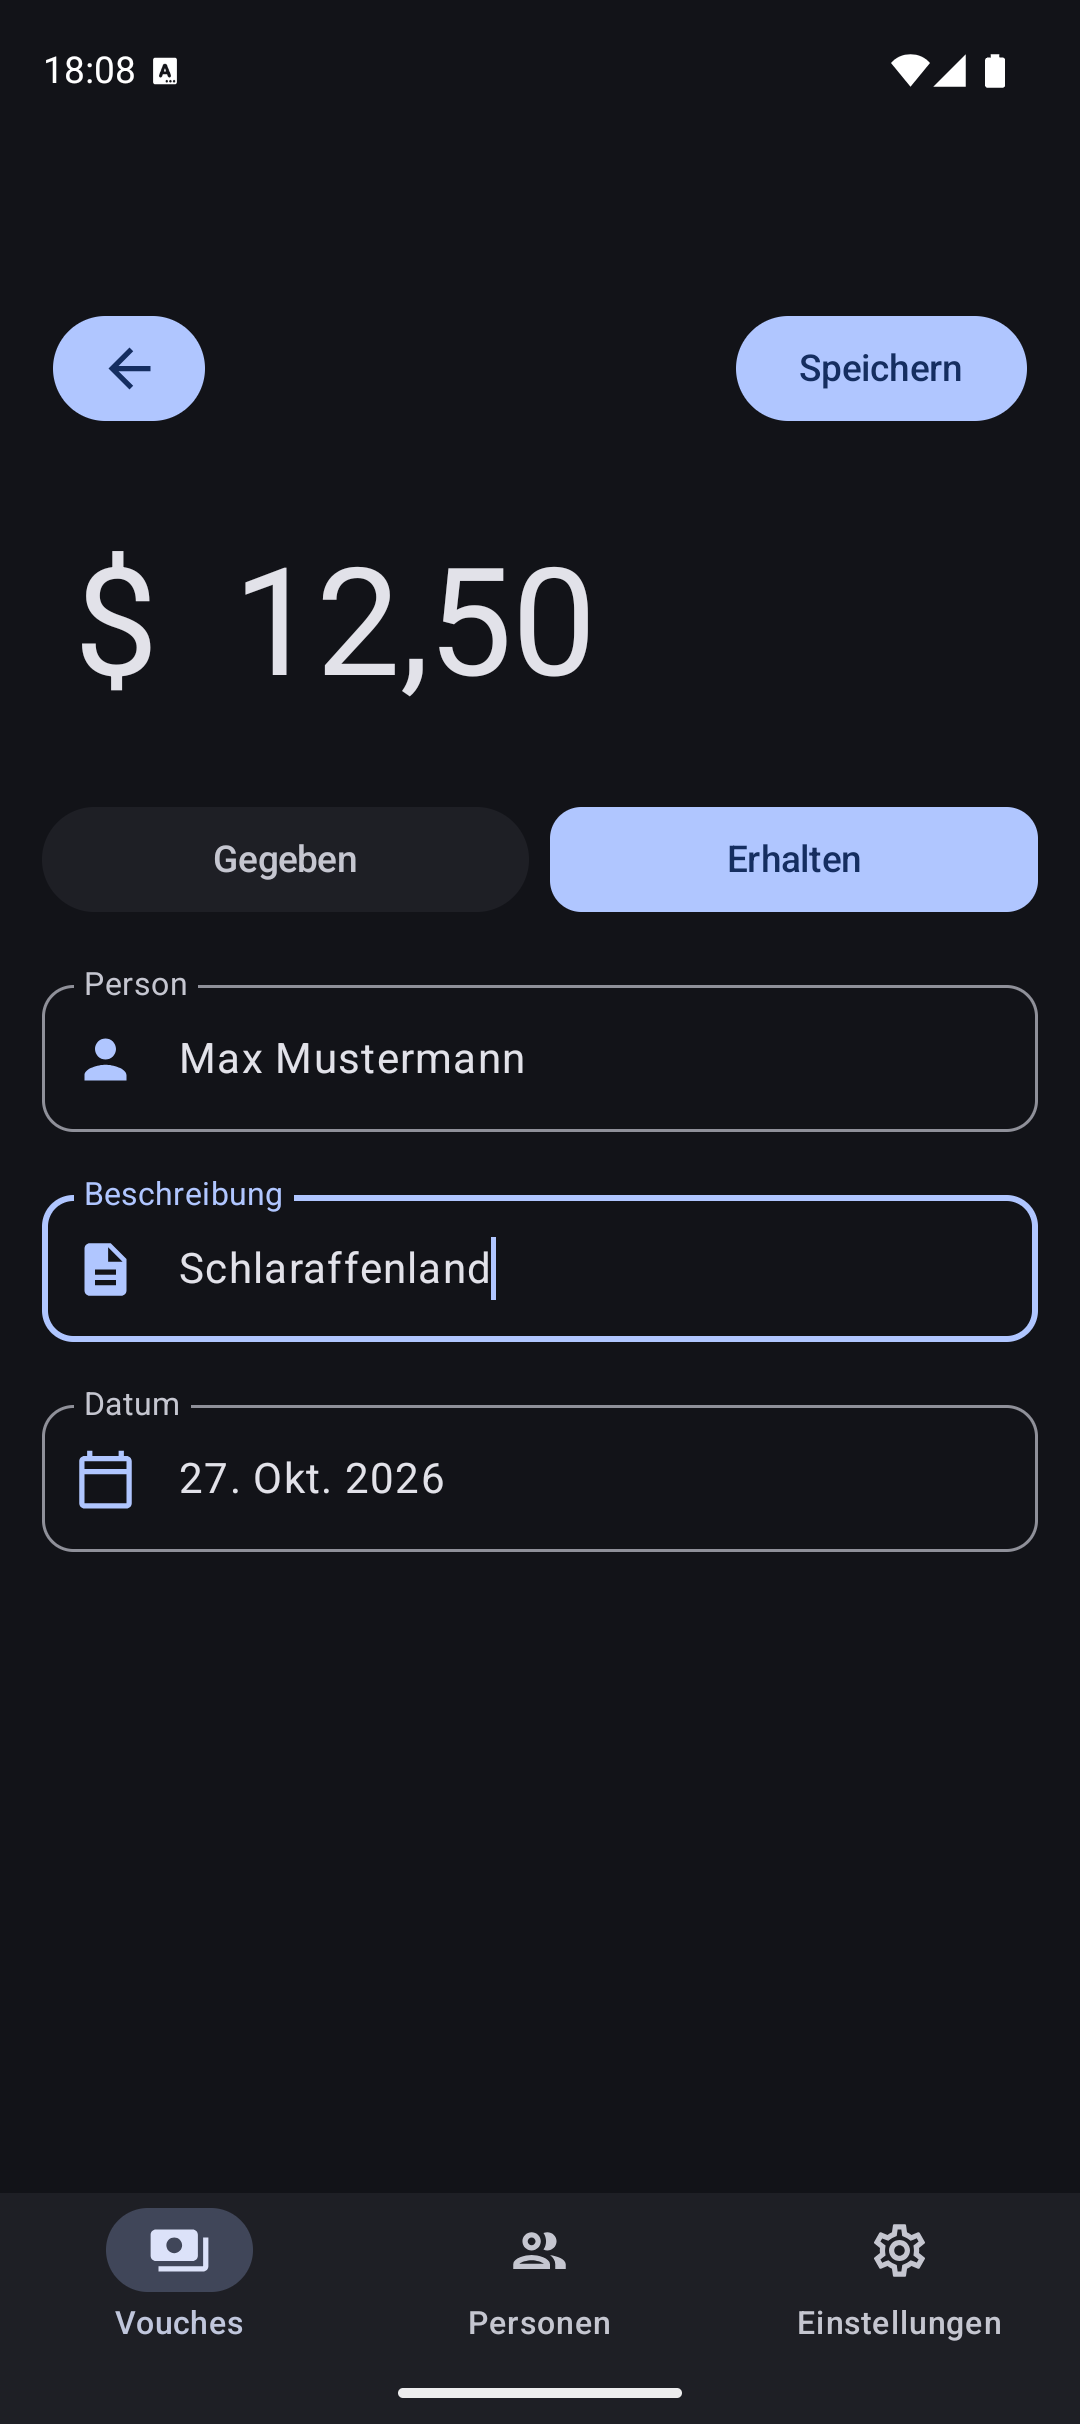
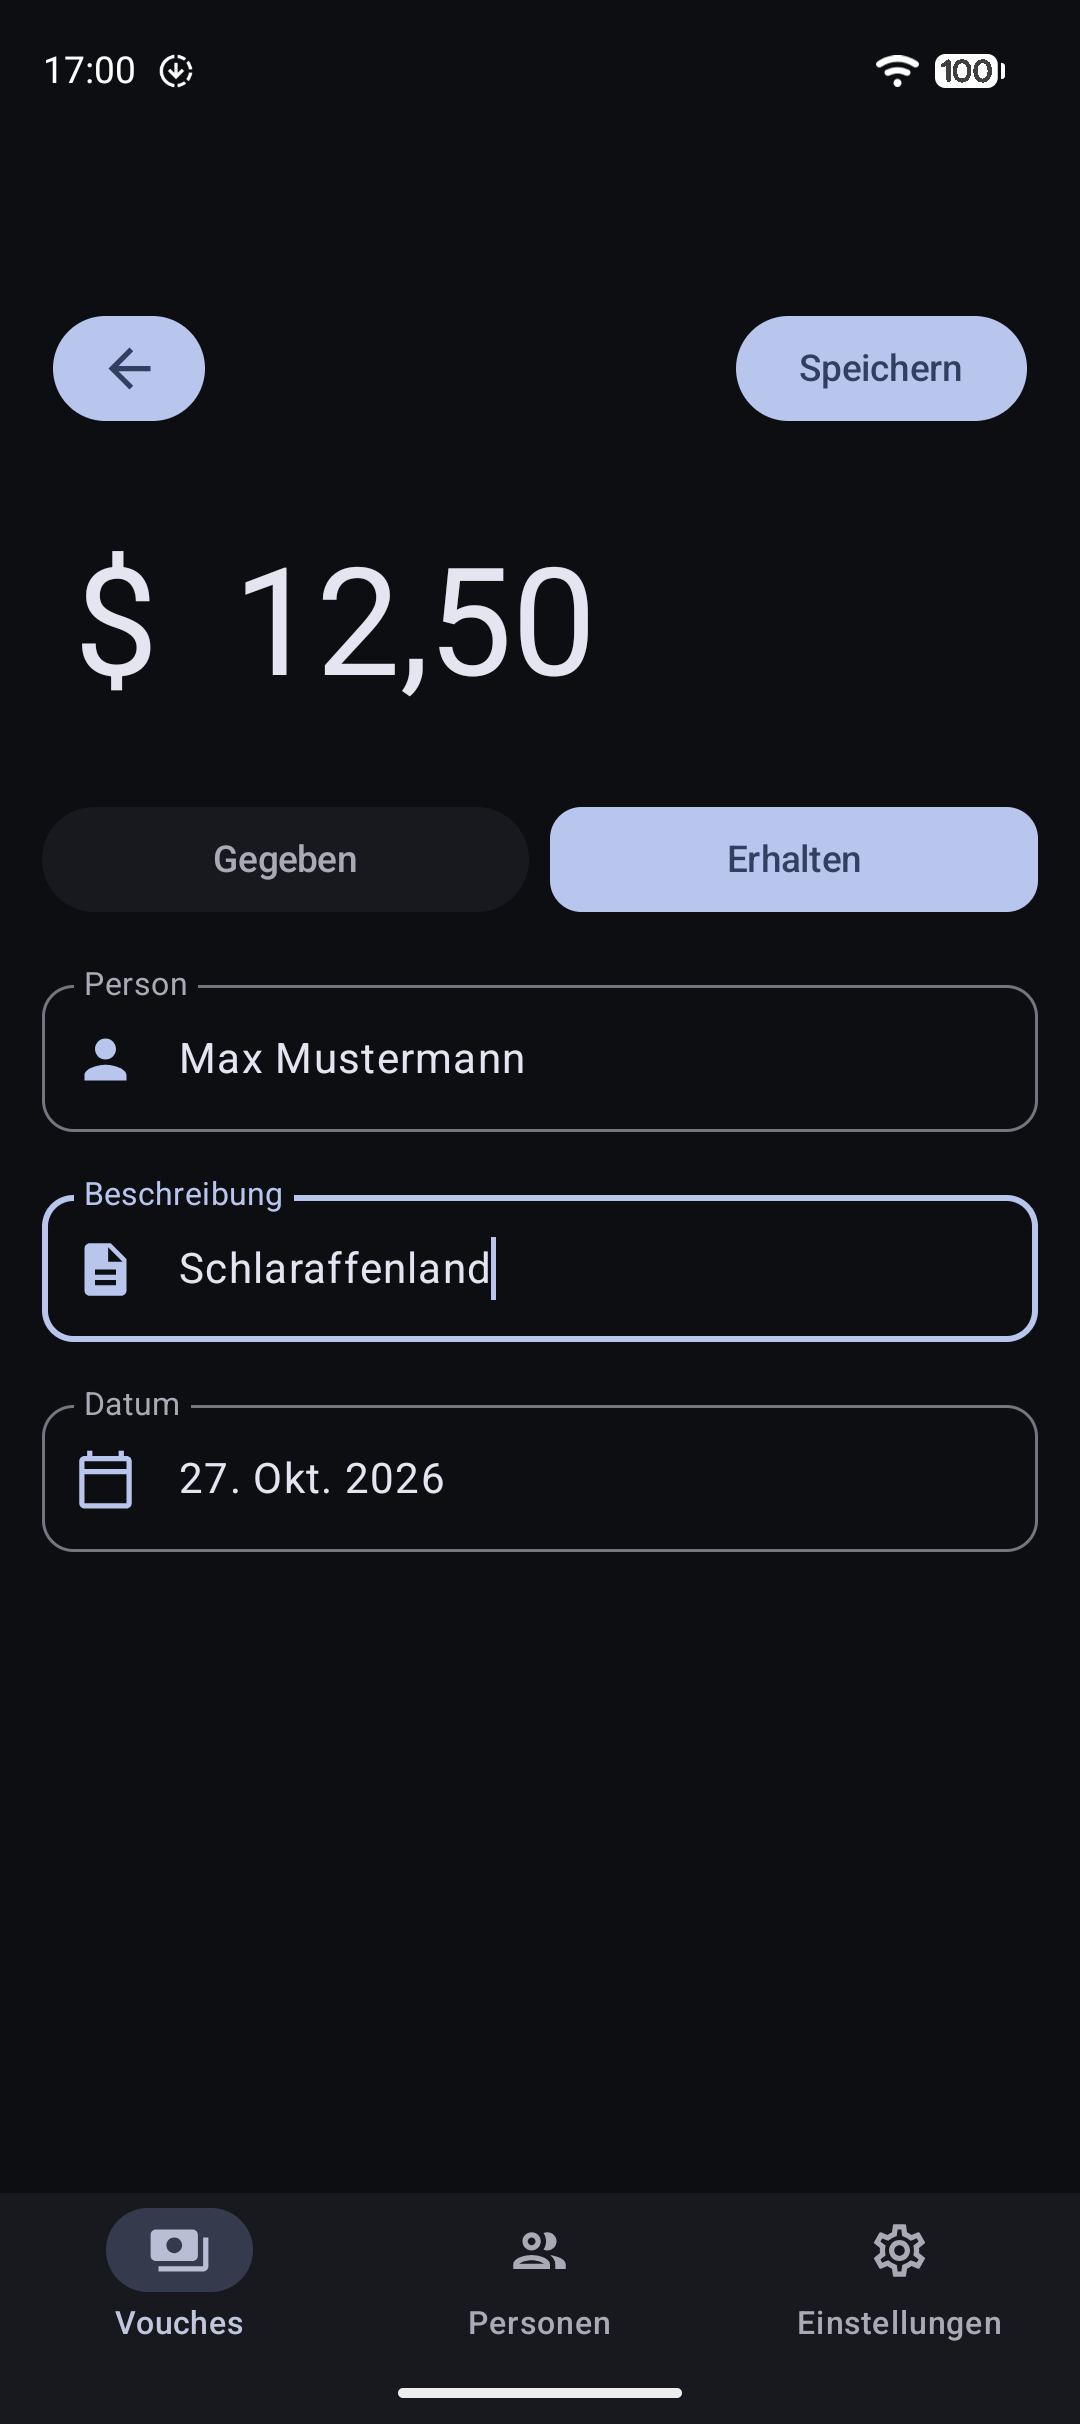
feat(screenshots): configure System UI Demo Mode with Android 17 pill status bar design

diff --git a/app/src/androidTest/java/com/iyox/vouch/screenshots/ScreenshotTest.kt b/app/src/androidTest/java/com/iyox/vouch/screenshots/ScreenshotTest.kt
@@ -72,7 +72,16 @@ class ScreenshotTest {
             .commit()
 
         try {
-            InstrumentationRegistry.getInstrumentation().uiAutomation.executeShellCommand("cmd uimode night yes")
+            val uiAutomation = InstrumentationRegistry.getInstrumentation().uiAutomation
+            uiAutomation.executeShellCommand("cmd uimode night yes")
+            uiAutomation.executeShellCommand("settings put global sysui_demo_allowed 1")
+            uiAutomation.executeShellCommand("settings put system time_12_24 24")
+            uiAutomation.executeShellCommand("settings put system status_bar_show_battery_percent 1")
+            uiAutomation.executeShellCommand("am broadcast -a com.android.systemui.demo -e command enter")
+            uiAutomation.executeShellCommand("am broadcast -a com.android.systemui.demo -e command clock -e hhmm 1700")
+            uiAutomation.executeShellCommand("am broadcast -a com.android.systemui.demo -e command battery -e level 100 -e plugged false")
+            uiAutomation.executeShellCommand("am broadcast -a com.android.systemui.demo -e command network -e wifi show -e level 4 -e fully true")
+            uiAutomation.executeShellCommand("am broadcast -a com.android.systemui.demo -e command notifications -e visible false")
         } catch (_: Exception) {
         }
 
